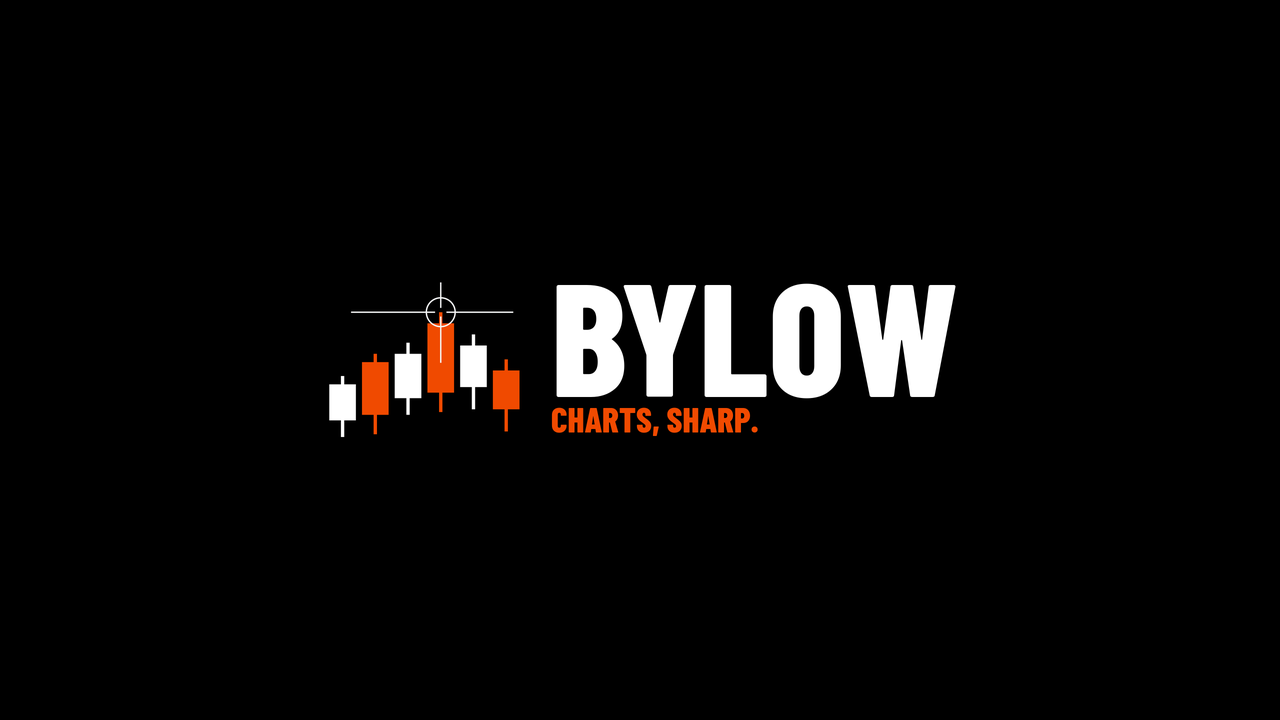
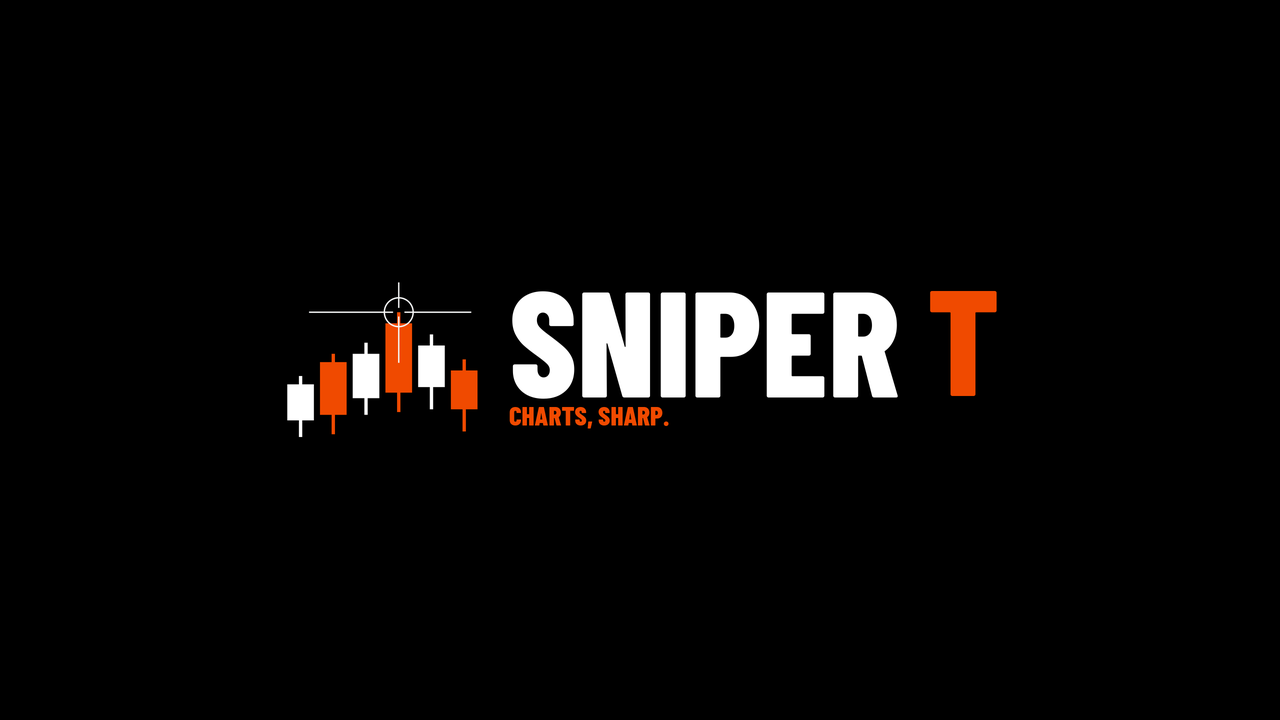
Rebrand the site to Sniper T
Use Sniper T as the visible name and SNIPER T as the banner wordmark, and keep the candlestick mark.

Changed region(s): [[0.2188, 0.3972, 0.7812, 0.6111]]

diff --git a/index.html b/index.html
@@ -3,17 +3,17 @@
   <head>
     <meta charset="utf-8">
     <meta name="viewport" content="width=device-width, initial-scale=1">
-    <title>BYLOW — Charts, sharp.</title>
+    <title>Sniper T — Charts, sharp.</title>
     <meta name="description" content="A family live trading stream and vlog. Twice a day, before school and after school. Entertainment only, not financial advice.">
     <meta name="theme-color" content="#090a0c">
     <link rel="canonical" href="https://ddunsford.github.io/rackit-day-trading/">
     <meta property="og:type" content="website">
-    <meta property="og:title" content="BYLOW">
+    <meta property="og:title" content="Sniper T">
     <meta property="og:description" content="Charts, sharp. A family live trading stream and vlog. Entertainment only, not financial advice.">
     <meta property="og:url" content="https://ddunsford.github.io/rackit-day-trading/">
     <meta property="og:image" content="https://ddunsford.github.io/rackit-day-trading/assets/logo-1024.png">
     <meta name="twitter:card" content="summary_large_image">
-    <meta name="twitter:title" content="BYLOW">
+    <meta name="twitter:title" content="Sniper T">
     <meta name="twitter:description" content="Charts, sharp. Entertainment only, not financial advice.">
     <meta name="twitter:image" content="https://ddunsford.github.io/rackit-day-trading/assets/logo-1024.png">
     <link rel="icon" href="assets/favicon-32.png" type="image/png" sizes="32x32">
@@ -27,8 +27,8 @@
     <header class="site-header">
       <div class="wrap header-bar">
         <a class="brand" href="#top">
-          <img class="brand-mark" src="assets/logo.svg" width="1024" height="1024" alt="BYLOW">
-          <span class="brand-name" aria-hidden="true">Bylow</span>
+          <img class="brand-mark" src="assets/logo.svg" width="1024" height="1024" alt="Sniper T">
+          <span class="brand-name" aria-hidden="true">Sniper <span class="mark-t">T</span></span>
         </a>
         <nav class="nav" aria-label="Page">
           <a href="#about">About</a>
@@ -47,7 +47,7 @@
               Family live stream
             </p>
             <h1 id="site-title">
-              <span class="wordmark">Bylow</span>
+              <span class="wordmark">Sniper <span class="it">T</span></span>
             </h1>
             <p class="tagline">Charts, sharp.</p>
             <p class="lede">A family live trading stream and vlog. Twice a day, before school and after school.</p>
@@ -67,7 +67,7 @@
                 sizes="(min-width: 900px) 520px, 100vw"
                 width="2560"
                 height="1440"
-                alt="BYLOW. Six candlesticks on black, with a crosshair on the highest candle, beside the name BYLOW.">
+                alt="Sniper T. Six candlesticks on black, with a crosshair on the highest candle, beside the name Sniper T.">
             </div>
           </figure>
         </div>
@@ -78,7 +78,7 @@
           <p class="index">01</p>
           <h2>About</h2>
           <div class="about-copy">
-            <p>BYLOW is a family live trading stream and vlog. We go live twice a day, before school and after school. There is no fixed start time.</p>
+            <p>Sniper T is a family live trading stream and vlog. We go live twice a day, before school and after school. There is no fixed start time.</p>
             <p>Each stream is what we did, and why. Just a family thing, for fun.</p>
           </div>
           <ul class="specs">
@@ -135,7 +135,7 @@
           <div class="plate plate-alert">
             <p class="index">03</p>
             <h2>Disclaimer</h2>
-            <p class="legal">DISCLAIMER: BYLOW is entertainment only. It is not financial advice. Every trade you see is made by our family with our own money, in our own accounts. Nothing on this channel is personal financial advice, and it doesn't take into account your objectives, financial situation or needs. We don't hold an Australian Financial Services Licence and we aren't recommending you buy or sell anything. Do your own research and speak to a licensed financial adviser before making any investment decision. Trading shares and options is risky and you can lose more than you put in. Past results don't guarantee future results.</p>
+            <p class="legal">DISCLAIMER: Sniper T is entertainment only. It is not financial advice. Every trade you see is made by our family with our own money, in our own accounts. Nothing on this channel is personal financial advice, and it doesn't take into account your objectives, financial situation or needs. We don't hold an Australian Financial Services Licence and we aren't recommending you buy or sell anything. Do your own research and speak to a licensed financial adviser before making any investment decision. Trading shares and options is risky and you can lose more than you put in. Past results don't guarantee future results.</p>
           </div>
         </div>
       </section>
@@ -145,7 +145,7 @@
       <div class="wrap footer-bar">
         <a class="brand brand-foot" href="#top">
           <img class="brand-mark" src="assets/logo.svg" width="1024" height="1024" alt="">
-          <span>BYLOW</span>
+          <span>Sniper T</span>
         </a>
         <p class="footer-note">Entertainment only, not financial advice. Our own money. Do your own research.</p>
         <a class="footer-link" href="https://www.youtube.com/@rackitdaytrading" target="_blank" rel="noopener noreferrer">YouTube<span class="sr-only"> (opens in a new tab)</span></a>

diff --git a/css/styles.css b/css/styles.css
@@ -189,13 +189,8 @@ a {
   text-transform: uppercase;
 }
 
-.brand-name span {
-  display: block;
-  margin-top: 0.18rem;
+.brand-name .mark-t {
   color: var(--orange);
-  font-size: 0.78rem;
-  font-weight: 700;
-  letter-spacing: 0.22em;
 }
 
 .nav {
@@ -273,7 +268,7 @@ a {
   font-weight: 800;
   font-size: clamp(4.4rem, 10vw, 7.5rem);
   line-height: 0.78;
-  letter-spacing: 0.04em;
+  letter-spacing: 0.01em;
   text-transform: uppercase;
 }
 

diff --git a/README.md b/README.md
@@ -1,4 +1,4 @@
-# BYLOW
+# Sniper T
 
 One-page site for the family live trading stream.
 
